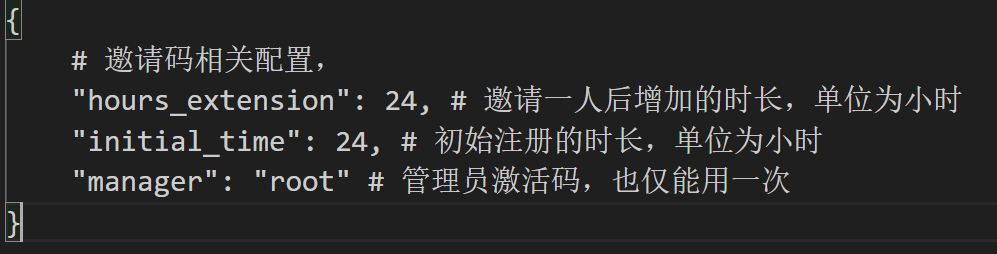
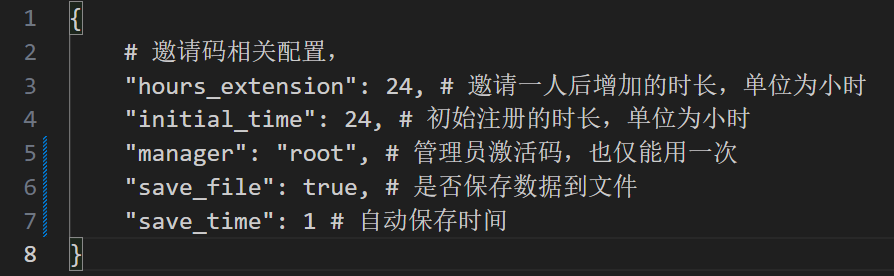
save data to json

diff --git a/VerifyCode.py b/VerifyCode.py
@@ -6,6 +6,7 @@ import random
 import re
 import time
 from datetime import datetime, timedelta
+import threading
 
 
 import plugins
@@ -46,6 +47,7 @@ class VerifyCode(Plugin):
         self.admin = []
         # 存放申请激活码的人，防止重复激活
         self.request_id = []
+
         try:
             # load config
             config_path = os.path.join(os.path.dirname(__file__), "config.json")
@@ -56,6 +58,23 @@ class VerifyCode(Plugin):
                 self.initial_time = config["initial_time"]   
                 self.hours_extension = config["hours_extension"]
                 self.manager = config["manager"]
+                self.save_time = config["save_time"]
+                self.save_file = config["save_file"]
+
+            if self.save_file:
+                # 在程序开始时加载数据
+                # 统一打开文件夹
+                self.invitation_code = self.load_from_json('./plugins/VerifyCode/data/invitation_code.json', dict)
+                self.inviter_code = self.load_from_json('./plugins/VerifyCode/data/inviter_code.json', dict)
+                self.verify_code = self.load_from_json('./plugins/VerifyCode/data/verify_code.json', dict)
+                self.whitelist = self.load_from_json('./plugins/VerifyCode/data/whitelist.json', list)
+                self.user_id = self.load_from_json('./plugins/VerifyCode/data/user_id.json', dict)
+                self.admin = self.load_from_json('./plugins/VerifyCode/data/admin.json', list)
+                # 保存数据的线程
+                self.save_thread = threading.Thread(target=self.save_data_periodically)
+                # 这个线程在程序结束后会卡着，需要关掉
+                self.save_thread.daemon = True
+                self.save_thread.start()
 
             self.handlers[Event.ON_HANDLE_CONTEXT] = self.on_handle_context
 
@@ -73,7 +92,6 @@ class VerifyCode(Plugin):
             return 
 
         context = e_context['context']
-        msg: ChatMessage = context['msg']
         isgroup = e_context["context"].get("isgroup")
         
         
@@ -90,16 +108,6 @@ class VerifyCode(Plugin):
         # 无邀请码时，初始化manager的为邀请码
         if not self.invitation_code:
             self.invitation_code[self.manager] = sender_id
-
-        # 机器人向外新添加好友时
-        if e_context["context"].type == ContextType.ACCEPT_FRIEND:
-            reply = Reply()
-            reply.type = ReplyType.TEXT
-            temp_invitation = self.generate_invitation_code()
-            reply.content = f"您已获得{self.initial_time/24}天试用!\n激活码为：{temp_invitation}"
-            self.invitation_code[temp_invitation] = sender_id
-            e_context["reply"] = reply
-            e_context.action = EventAction.BREAK_PASS
 
         reply = Reply()
         reply.type = ReplyType.TEXT
@@ -125,8 +133,6 @@ class VerifyCode(Plugin):
                 e_context["reply"] = reply
                 e_context.action = EventAction.BREAK_PASS
                 return
-            # 根据判断是否是管理员来申请邀请码
-        
             if cmd == "申请激活码":
                 # 生成邀请码
                 # 要获取发送人的id
@@ -210,8 +216,6 @@ class VerifyCode(Plugin):
 
                 # 移出未使用邀请码
                 self.invitation_code.pop(invitation_code)
-                # 若该邀请码有期效
-                
 
                 e_context["reply"] = reply
                 e_context.action = EventAction.BREAK_PASS
@@ -295,3 +299,37 @@ class VerifyCode(Plugin):
             '''
         )
         return help_text
+    
+    def load_from_json(self, filename, expected_type):
+        try:
+            with open(filename, 'r') as f:
+                data = json.load(f)
+                if not isinstance(data, expected_type):
+                    print(f"Warning: data in {filename} is not of type {expected_type.__name__}, creating a new one.")
+                    data = expected_type()
+                return data
+        except FileNotFoundError:
+            return expected_type()
+        
+
+    def save_to_json(self, data, filename):
+        # 检查文件夹是否存在，如果不存在，创建它
+        # 需要保存在与这个文件相同文件夹的data文件夹
+        folder = os.path.dirname(filename)
+        if not os.path.exists(folder):
+            os.makedirs(folder)
+        with open(filename, 'w') as f:
+            json.dump(data, f, ensure_ascii=False, indent=4)
+        
+    def save_data_periodically(self):
+        while True:
+            # 在程序运行过程中保存数据
+            self.save_to_json(self.invitation_code, './plugins/VerifyCode/data/invitation_code.json')
+            self.save_to_json(self.inviter_code, './plugins/VerifyCode/data/inviter_code.json')
+            self.save_to_json(self.verify_code, './plugins/VerifyCode/data/verify_code.json')
+            self.save_to_json(self.whitelist, './plugins/VerifyCode/data/whitelist.json')
+            self.save_to_json(self.user_id, './plugins/VerifyCode/data/user_id.json')
+            self.save_to_json(self.admin, './plugins/VerifyCode/data/admin.json')
+
+            # 等待一段时间
+            time.sleep(self.save_time)  # 每小时保存一次数据

diff --git a/README.md b/README.md
@@ -8,6 +8,8 @@ VertifyCode是你的不二之选！🥳
 
 作为管理员，你不但可以申请邀请码，还能申请任意时间的激活码！输入"激活码:root"(root为程序默认的管理员激活码，可修改config中的manager进行自定义)以获得系统的管理员权限！
 
+程序运行中会将数据自动存储到插件同文件夹下的data中，每次程序运行前将会读取，保证上次记录还在，可以在json文件中修改save_file的值来选择是否开启这个功能。
+
 Enjoy this!
 
 ChatGPT on Wechat(COW) 原项目地址：https://github.com/zhayujie/chatgpt-on-wechat
